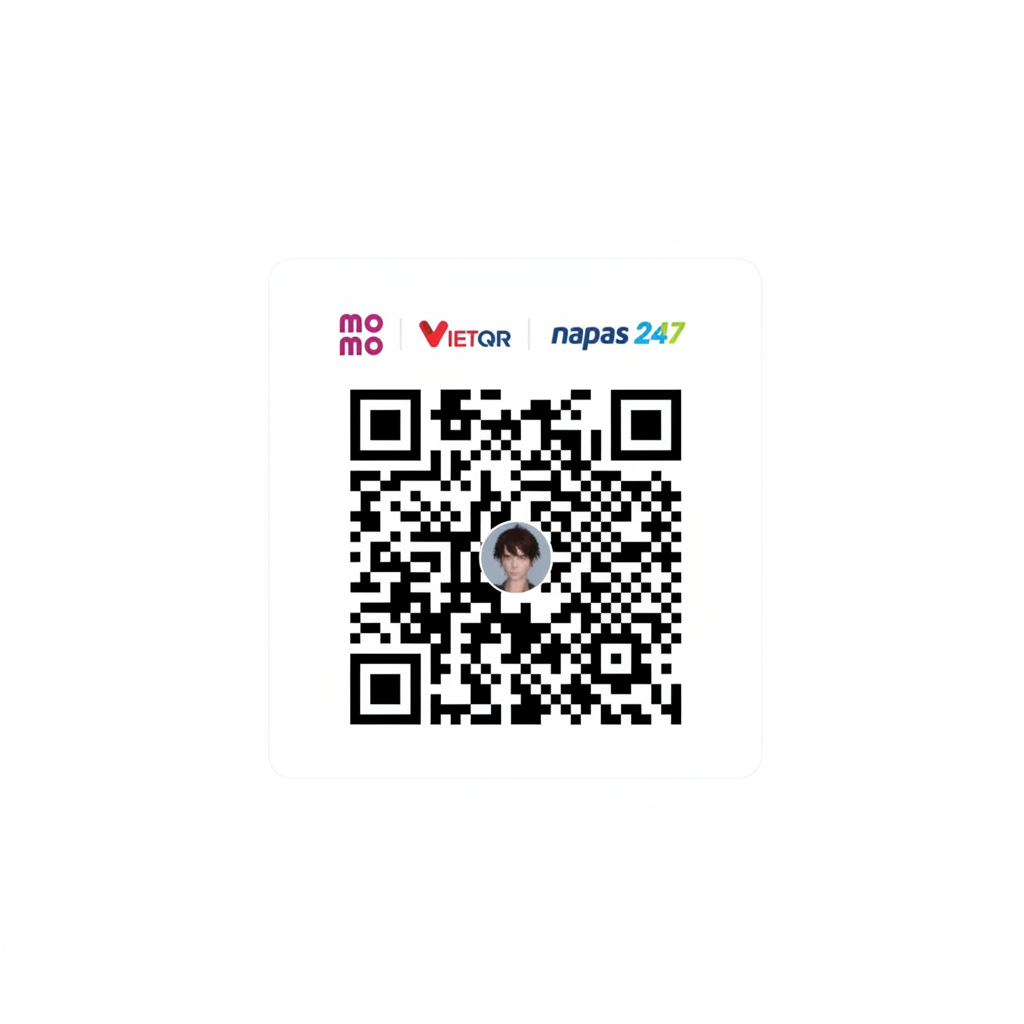
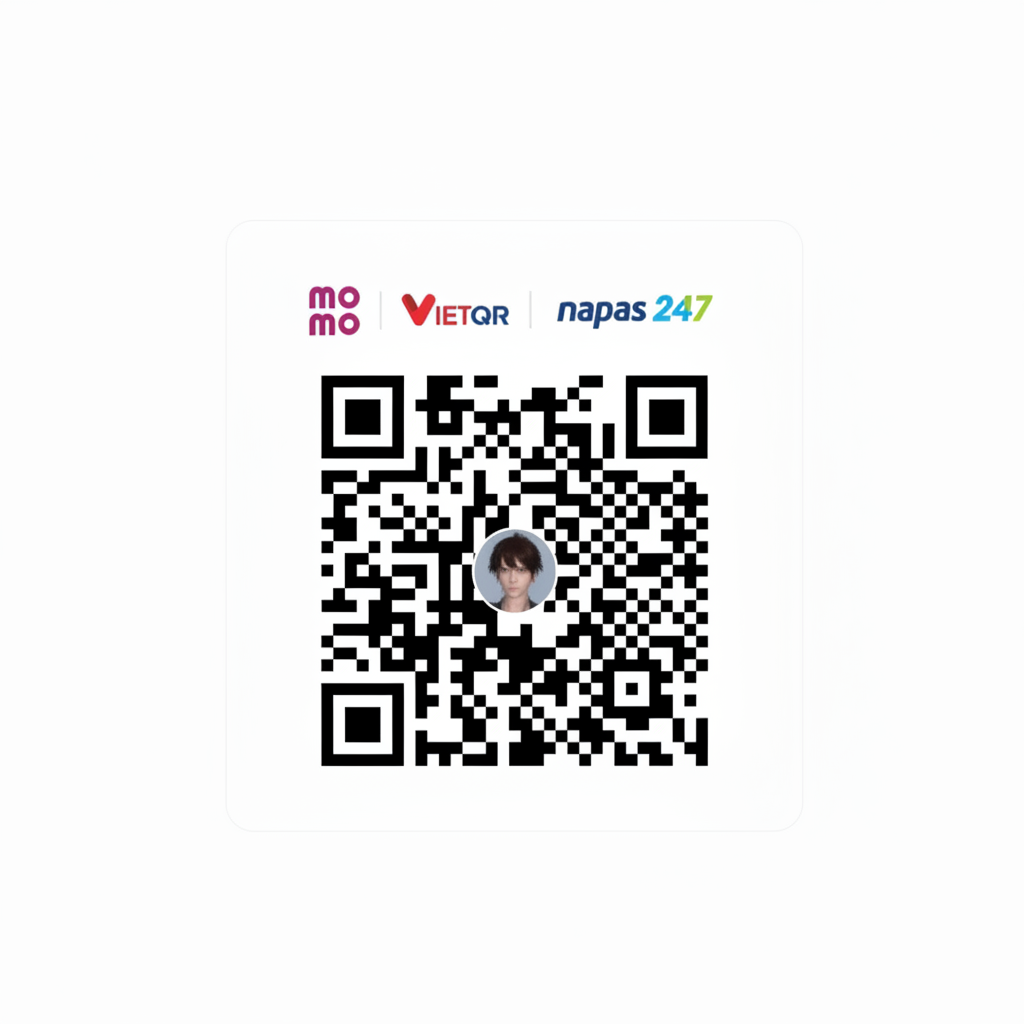
Changes

Changed region(s): [[0.2812, 0.2812, 0.7188, 0.75]]

diff --git a/src/components/DonationSection.tsx b/src/components/DonationSection.tsx
@@ -1,4 +1,4 @@
-import { Heart, Coffee, Sparkles } from "lucide-react";
+import { Heart, Coffee, Sparkles, QrCode } from "lucide-react";
 import donateQR from "@/assets/donate-qr.png";
 
 export function DonationSection() {
@@ -6,76 +6,98 @@ export function DonationSection() {
     <section className="py-20 relative overflow-hidden">
       {/* Background effects */}
       <div className="absolute inset-0">
-        <div className="absolute top-1/2 left-1/2 -translate-x-1/2 -translate-y-1/2 w-[600px] h-[600px] bg-primary/5 rounded-full blur-3xl" />
+        <div className="absolute top-1/2 left-1/2 -translate-x-1/2 -translate-y-1/2 w-[800px] h-[800px] bg-gradient-radial from-primary/8 via-primary/3 to-transparent rounded-full" />
+        <div className="absolute bottom-0 left-0 w-[400px] h-[400px] bg-secondary/5 rounded-full blur-3xl" />
       </div>
       
       <div className="container mx-auto px-4 relative">
-        <div className="max-w-3xl mx-auto">
+        <div className="max-w-4xl mx-auto">
           {/* Header */}
-          <div className="text-center mb-10">
-            <div className="inline-flex items-center gap-2 px-4 py-2 rounded-full border border-primary/30 bg-primary/5 mb-6">
-              <Heart className="w-4 h-4 text-primary fill-primary" />
+          <div className="text-center mb-12">
+            <div className="inline-flex items-center gap-2 px-4 py-2 rounded-full border border-primary/30 bg-primary/5 mb-6 animate-fade-in">
+              <Heart className="w-4 h-4 text-primary fill-primary animate-pulse" />
               <span className="text-sm text-foreground-muted">Ủng hộ Creator</span>
             </div>
             
-            <h2 className="font-display text-3xl md:text-4xl font-bold mb-4">
-              <span className="text-foreground">Thích ứng dụng?</span>{" "}
-              <span className="gradient-text">Ủng hộ mình nhé!</span>
+            <h2 className="font-display text-3xl md:text-5xl font-bold mb-5">
+              <span className="text-foreground">Thích ứng dụng?</span>
+              <br className="md:hidden" />
+              <span className="gradient-text"> Ủng hộ mình nhé!</span>
             </h2>
             
-            <p className="text-foreground-muted max-w-xl mx-auto text-lg">
+            <p className="text-foreground-muted max-w-2xl mx-auto text-lg leading-relaxed">
               Mỗi đóng góp của bạn giúp mình có thêm động lực phát triển các ứng dụng mới, 
-              phục vụ cộng đồng sáng tạo nội dung.
+              phục vụ cộng đồng sáng tạo nội dung Việt Nam.
             </p>
           </div>
           
-          {/* Donation Card */}
-          <div className="glass-panel rounded-2xl p-8 md:p-10">
-            <div className="flex flex-col md:flex-row items-center gap-8 md:gap-12">
-              {/* QR Code */}
-              <div className="flex-shrink-0">
-                <div className="relative">
-                  <div className="absolute -inset-3 bg-gradient-to-br from-primary/20 to-secondary/20 rounded-2xl blur-lg" />
-                  <div className="relative bg-white rounded-xl p-5 shadow-lg">
+          {/* Main Donation Card */}
+          <div className="glass-panel rounded-3xl p-6 md:p-8 lg:p-10 border border-primary/10 hover:border-primary/20 transition-colors duration-300">
+            <div className="flex flex-col lg:flex-row items-center gap-8 lg:gap-12">
+              
+              {/* QR Code Section */}
+              <div className="flex-shrink-0 text-center">
+                <div className="relative group">
+                  {/* Glow effect */}
+                  <div className="absolute -inset-4 bg-gradient-to-br from-primary/30 via-secondary/20 to-primary/30 rounded-2xl blur-xl opacity-50 group-hover:opacity-70 transition-opacity duration-300" />
+                  
+                  {/* QR Frame */}
+                  <div className="relative bg-white rounded-2xl p-3 shadow-2xl shadow-primary/10">
                     <img 
                       src={donateQR} 
                       alt="QR Code Donate - Trần Thiên Chương" 
-                      className="w-72 h-72 md:w-80 md:h-80 object-contain"
+                      className="w-56 h-56 md:w-64 md:h-64 object-contain"
                     />
                   </div>
                 </div>
+                
+                {/* Scan instruction */}
+                <div className="mt-4 flex items-center justify-center gap-2 text-sm text-foreground-subtle">
+                  <QrCode className="w-4 h-4" />
+                  <span>Quét để ủng hộ</span>
+                </div>
               </div>
               
-              {/* Info */}
-              <div className="flex-1 text-center md:text-left">
-                <div className="flex items-center justify-center md:justify-start gap-2 mb-4">
-                  <Coffee className="w-5 h-5 text-primary" />
-                  <span className="font-display font-semibold text-lg">Mua cho mình ly cà phê</span>
+              {/* Info Section */}
+              <div className="flex-1 text-center lg:text-left">
+                {/* Title */}
+                <div className="flex items-center justify-center lg:justify-start gap-3 mb-5">
+                  <div className="w-10 h-10 rounded-full bg-primary/10 flex items-center justify-center">
+                    <Coffee className="w-5 h-5 text-primary" />
+                  </div>
+                  <span className="font-display font-bold text-xl">Mua cho mình ly cà phê</span>
                 </div>
                 
-                <p className="text-foreground-muted mb-6">
-                  Quét mã QR bằng ứng dụng MoMo, VietQR hoặc bất kỳ ứng dụng ngân hàng nào 
-                  hỗ trợ NAPAS 247 để ủng hộ.
+                {/* Description */}
+                <p className="text-foreground-muted mb-6 leading-relaxed">
+                  Quét mã QR bằng <span className="text-primary font-medium">MoMo</span>, 
+                  <span className="text-primary font-medium"> VietQR</span> hoặc bất kỳ ứng dụng 
+                  ngân hàng nào hỗ trợ <span className="text-primary font-medium">NAPAS 247</span>.
                 </p>
                 
-                <div className="space-y-3">
-                  <div className="flex items-center justify-center md:justify-start gap-3 text-sm">
-                    <span className="text-foreground-subtle">Chủ tài khoản:</span>
-                    <span className="font-medium text-foreground">TRẦN THIÊN CHƯƠNG</span>
-                  </div>
+                {/* Account Info */}
+                <div className="inline-flex items-center gap-3 px-4 py-3 rounded-xl bg-muted/50 border border-border mb-8">
+                  <span className="text-sm text-foreground-subtle">Chủ TK:</span>
+                  <span className="font-display font-semibold text-foreground">TRẦN THIÊN CHƯƠNG</span>
                 </div>
                 
                 {/* Benefits */}
-                <div className="mt-8 pt-6 border-t border-border">
-                  <p className="text-sm text-foreground-subtle mb-4">Đóng góp của bạn giúp:</p>
-                  <div className="flex flex-wrap justify-center md:justify-start gap-3">
-                    {["Phát triển tính năng mới", "Duy trì server", "Tạo app mới"].map((item) => (
+                <div className="pt-6 border-t border-border/50">
+                  <p className="text-sm text-foreground-subtle mb-4 font-medium">
+                    ✨ Đóng góp của bạn giúp:
+                  </p>
+                  <div className="flex flex-wrap justify-center lg:justify-start gap-2">
+                    {[
+                      { icon: "🚀", text: "Phát triển tính năng mới" },
+                      { icon: "💻", text: "Duy trì server" },
+                      { icon: "🎨", text: "Tạo app mới" }
+                    ].map((item) => (
                       <span 
-                        key={item}
-                        className="inline-flex items-center gap-1.5 px-3 py-1.5 rounded-full bg-primary/10 text-primary text-sm"
+                        key={item.text}
+                        className="inline-flex items-center gap-2 px-4 py-2 rounded-full bg-gradient-to-r from-primary/10 to-secondary/10 text-foreground-muted text-sm border border-primary/10 hover:border-primary/30 transition-colors"
                       >
-                        <Sparkles className="w-3 h-3" />
-                        {item}
+                        <span>{item.icon}</span>
+                        {item.text}
                       </span>
                     ))}
                   </div>
@@ -85,9 +107,11 @@ export function DonationSection() {
           </div>
           
           {/* Thank you message */}
-          <p className="text-center text-foreground-subtle text-sm mt-8">
-            Cảm ơn bạn đã ủng hộ! ❤ Mỗi đóng góp dù nhỏ đều có ý nghĩa lớn.
-          </p>
+          <div className="text-center mt-10">
+            <p className="text-foreground-muted text-sm">
+              Cảm ơn bạn đã ủng hộ! <span className="text-destructive">❤</span> Mỗi đóng góp dù nhỏ đều có ý nghĩa lớn.
+            </p>
+          </div>
         </div>
       </div>
     </section>
